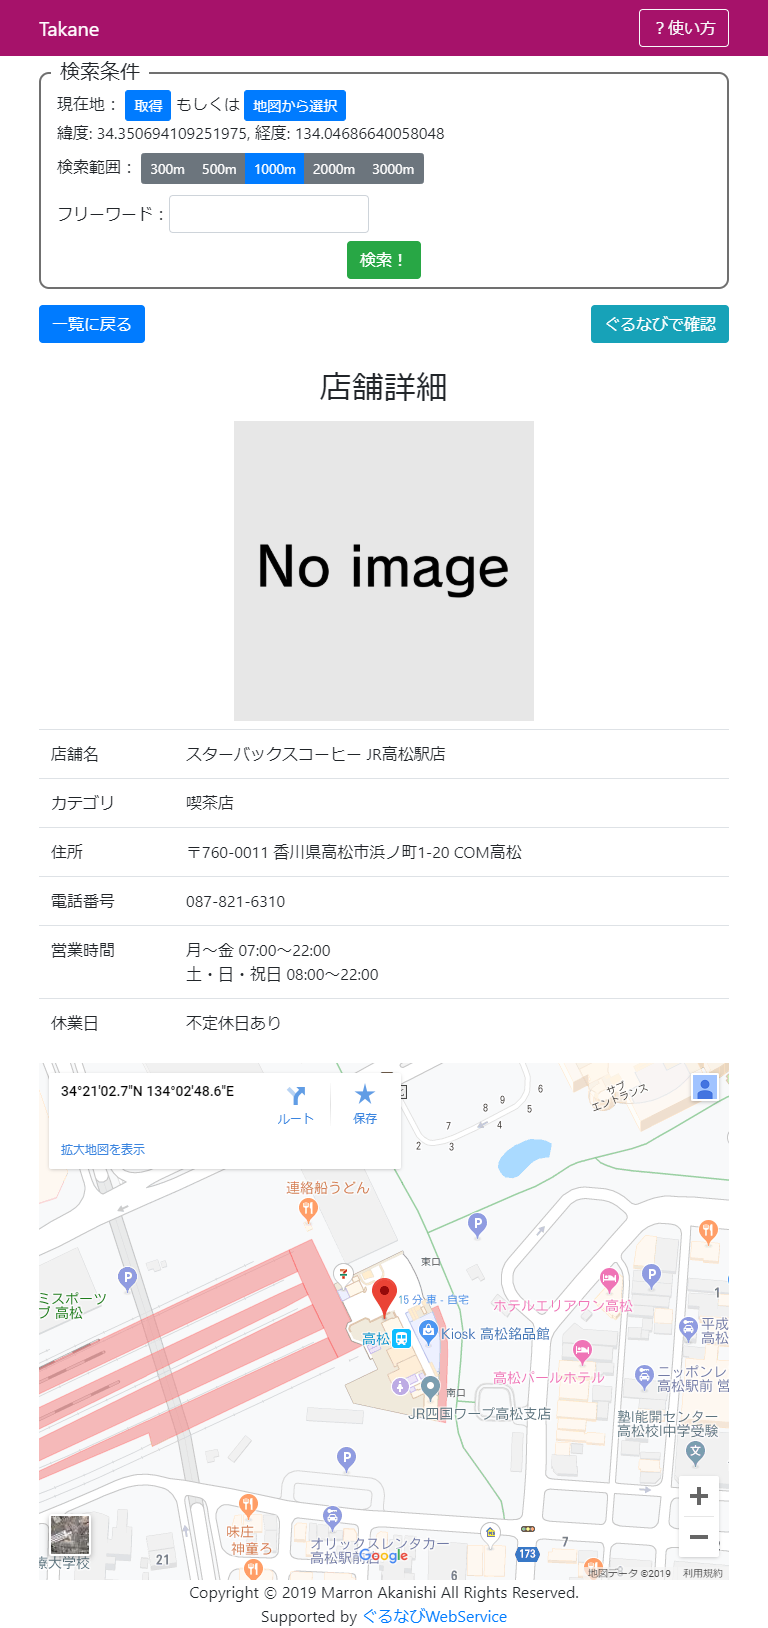
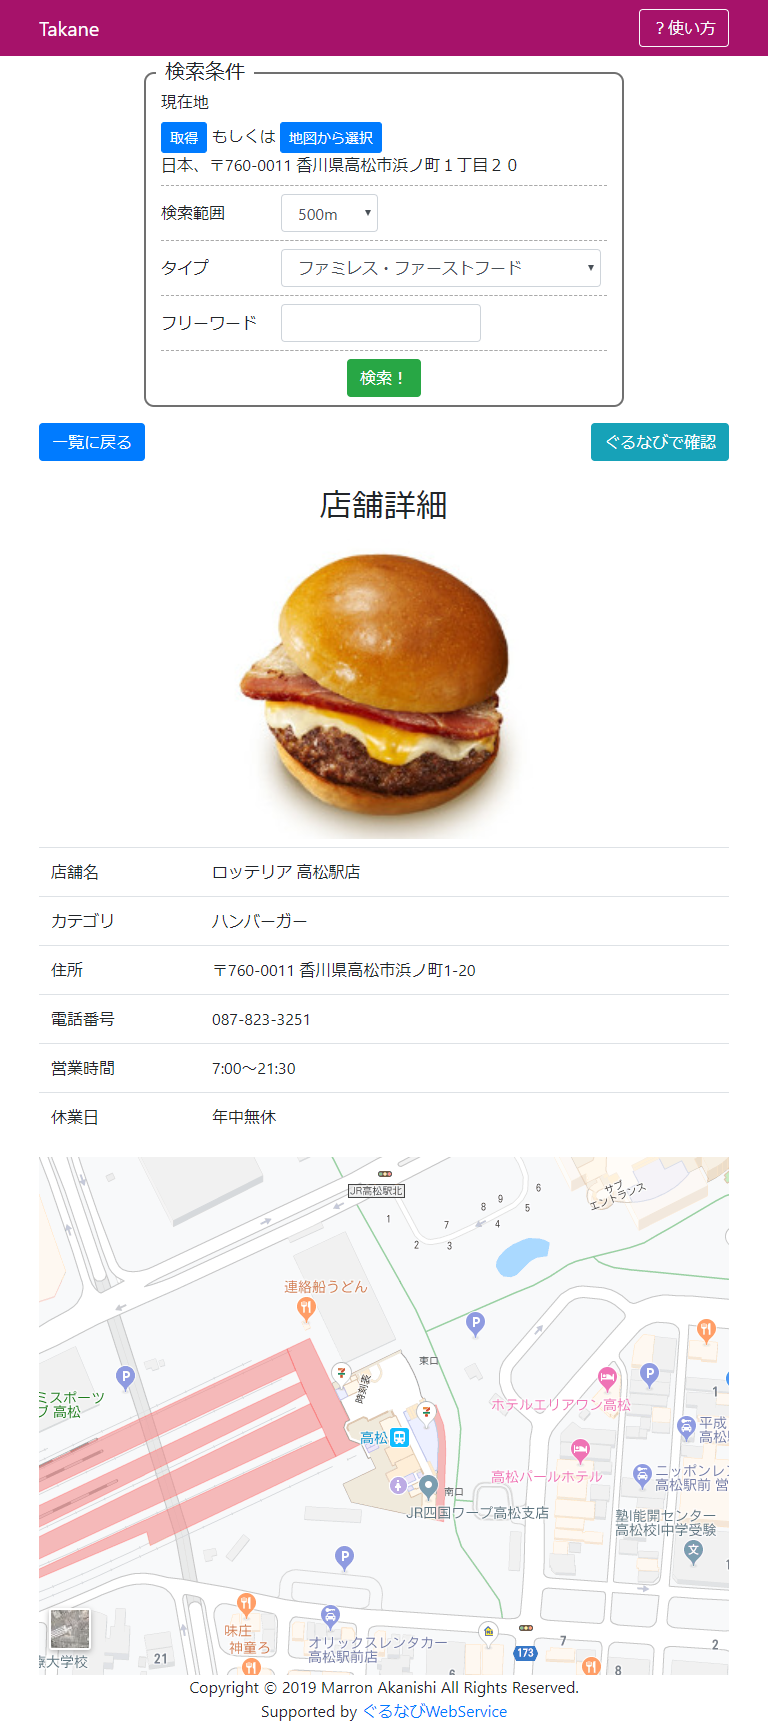
デザイン等変更

diff --git a/js/script.js b/js/script.js
@@ -49,19 +49,16 @@ const search_vm = new Vue({
   el: '#search',
   data: {
     position: "現在地を指定してください",
-    area_radius: [
+    range_list: [
       { id: 1, name: "300m"},
       { id: 2, name: "500m" },
       { id: 3, name: "1000m" },
       { id: 4, name: "2000m" },
       { id: 5, name: "3000m" },
     ],
-    area_id: 2,
     type_list: [
       { category_l_code: null, category_l_name: "指定なし"}
     ],
-    type_code: null,
-    type_name: "指定なし",
     latitude: null,
     longitude: null,
     map_zoom: 7,
@@ -73,14 +70,16 @@ const search_vm = new Vue({
       `);
       const json = await resp.json();
       search_vm.type_list = search_vm.type_list.concat(json.category_l);
+      document.querySelector("#range-sel").selectedIndex = 1;
     },
     _getPos: () => {
+      // https://qiita.com/akkey2475/items/81f4f94f17bfe5c7ce42
       navigator.geolocation.getCurrentPosition(
         // 取得成功した場合
         (pos) => {
           search_vm.latitude = pos.coords.latitude;
           search_vm.longitude = pos.coords.longitude;
-          search_vm.position = "緯度: " + pos.coords.latitude + ", 経度: " + pos.coords.longitude;
+          latLng2Address({lat: search_vm.latitude, lng: search_vm.longitude});
         },
         // 取得失敗した場合
         (error) => {
@@ -101,10 +100,8 @@ const search_vm = new Vue({
         }
       );
     },
-    _setArea: (index) => {
-      search_vm.area_id = index;
-    },
     _openMapModal: () => {
+      // https://qiita.com/SOJO/items/d43a28a6fe27de3cc85c
       // 大阪にするか指定されているか
       const lat = search_vm.latitude || 34.70238529947451;
       const lng = search_vm.longitude || 135.49552602848348;
@@ -128,14 +125,30 @@ const search_vm = new Vue({
       });
     },
     _setPos: () => {
-      search_vm.position = "緯度: " + search_vm.latitude + ", 経度: " + search_vm.longitude;
-    },
-    _setType: (code, name) => {
-      search_vm.type_code = code;
-      search_vm.type_name = name;
+      latLng2Address({ lat: search_vm.latitude, lng: search_vm.longitude });
     }
   }
 });
+
+// 住所表示
+// https://techa1008.com/rocket-note/2018/07/19/get-address-from-latitude-and-longitude-using-google-maps-javascript-api/
+const latLng2Address = (latLng) => {
+  // ジオコーダのコンストラクタ
+  const geocoder = new google.maps.Geocoder();
+  // Reverse Geocoding開始
+  geocoder.geocode({
+    // 緯度経度を指定
+    latLng: latLng
+  }, (results, status) => {
+    // 成功
+    if (status == google.maps.GeocoderStatus.OK && results[0].geometry) {
+      // 住所フル
+      search_vm.position = results[0].formatted_address;
+    } else {
+      search_vm.position = "住所の取得に失敗しました";
+    }
+  });
+}
 
 // 一覧取得
 const getRestSearch = async (page) => {
@@ -144,16 +157,22 @@ const getRestSearch = async (page) => {
     alert("最初に現在地を指定してください");
     return;
   }
-  // APIにアクセス
-  let url = `https://api.gnavi.co.jp/RestSearchAPI/v3/?keyid=${GNAVI_API}&latitude=${search_vm.latitude}&longitude=${search_vm.longitude}&range=${search_vm.area_id}&hit_per_page=${GET_MAX}`
+  // 選択状態の取得
+  const range_index = document.querySelector("#range-sel").selectedIndex;
+  const range_id = search_vm.range_list[range_index].id;
+  const type_index = document.querySelector("#type-sel").selectedIndex;
+  // アクセスURL生成
+  let url = `https://api.gnavi.co.jp/RestSearchAPI/v3/?keyid=${GNAVI_API}&latitude=${search_vm.latitude}&longitude=${search_vm.longitude}&range=${range_id}&hit_per_page=${GET_MAX}`
   if (document.querySelector("#freeword").value != "") {
     const freeword = encodeURIComponent(document.querySelector("#freeword").value.replace(/ /g, ','));
     url += `&freeword=${freeword}`
   }
-  if (search_vm.type_code != null) url += `&category_l=${search_vm.type_code}`
+  if (type_index != 0) url += `&category_l=${search_vm.type_list[type_index].category_l_code}`
+  // APIにアクセス
   const resp = await fetch(url);
   const json = await resp.json();
   console.log(json);
+  // エラー処理
   if (json.error != null){
     results_vm.error = json.error[0];
     results_vm.hit_count = 0;
@@ -162,13 +181,43 @@ const getRestSearch = async (page) => {
   } else {
     results_vm.error = null;
     results_vm.hit_count = json.total_hit_count;
-    results_vm.rest_list = json.rest;
+    results_vm.rest_list = sortRestList(json.rest);
   }
   // ページャー作成
   makePageNav(results_vm.page_limit);
   // 表示状態をリセット
   document.querySelector("#details").style.display = "none";
   document.querySelector("#results").style.display = "";
+}
+
+// 距離によって並び替え
+const sortRestList = (list) => {
+  // 距離計算
+  const new_list = list.map((rest) => {
+    let dist;
+    if (rest.latitude == "" || rest.longitude == "") dist = 99999;
+    else dist = calcDistance(search_vm.latitude, search_vm.longitude, rest.latitude, rest.longitude)
+    rest.distance = dist;
+    return rest;
+  })
+  // 近い順に並び替え
+  return new_list.sort((a, b) => {
+    a = a.distance;
+    b = b.distance;
+    if (a < b) return -1;
+    else if (a > b) return 1;
+    else return 0;
+  });
+}
+
+// 緯度経度による距離計算(メートル)
+// https://qiita.com/kawanet/items/a2e111b17b8eb5ac859a
+const calcDistance = (lat1, lng1, lat2, lng2) => {
+  lat1 *= Math.PI / 180;
+  lng1 *= Math.PI / 180;
+  lat2 *= Math.PI / 180;
+  lng2 *= Math.PI / 180;
+  return parseInt(1000 * 6371 * Math.acos(Math.cos(lat1) * Math.cos(lat2) * Math.cos(lng2 - lng1) + Math.sin(lat1) * Math.sin(lat2)));
 }
 
 // ページャーの生成
@@ -212,6 +261,7 @@ const makePageNav = (limit) => {
 
 // ページネーション
 const setPage = (page) => {
+  // 表示ページの変更
   switch (page) {
     case "prev":
       results_vm.current_page--;

diff --git a/index.html b/index.html
@@ -28,39 +28,49 @@
   </nav>
   <!-- メイン -->
   <div id="app" class="container">
-    <div id="search">
-      <div class="search-title">検索条件</div>
-      <div id="search-pos" class="mt-2 mb-2">
-        現在地：
-        <button class="btn btn-primary btn-sm" v-on:click="_getPos">取得</button>
-        もしくは
-        <b-button variant="primary" size="sm" v-b-modal.map-modal>地図から選択</b-button>
-        <br>
-        <span v-html="position"></span>
-      </div>
-      <b-modal id="map-modal" title="地図から選択" static="true" @show="_openMapModal" @ok="_setPos">
-        <p>地図から現在地を選択してください。</p>
-        <div id="search-map" style="width:100%; height:400px;"></div>
-      </b-modal>
-      <div id="search-area" class="mb-2">
-        <label for="area-list">検索範囲：</label>
-        <div class="btn-group btn-group-sm" role="group" id="area-list">
-          <button v-for="radius in area_radius" type="button" v-on:click="_setArea(radius.id)" v-bind:class="['btn', area_id == radius.id ? 'btn-primary' : 'btn-secondary']">{{radius.name}}</button>
+    <div id="search" class="row justify-content-center">
+      <div class="col-md-2"></div>
+      <div class="col-11 col-md-8 search-box">
+        <div class="search-title">検索条件</div>
+        <div id="search-pos" class="mt-2">
+          <label>現在地</label>
+          <div style="display: inline-table;">
+            <button class="btn btn-primary btn-sm" v-on:click="_getPos">取得</button>
+            もしくは
+            <b-button variant="primary" size="sm" v-b-modal.map-modal>地図から選択</b-button>
+            <br>
+            <span v-html="position"></span>
+          </div>
+        </div>
+        <hr>
+        <b-modal id="map-modal" title="地図から選択" static="true" @show="_openMapModal" @ok="_setPos">
+          <p>地図から現在地を選択してください。</p>
+          <div id="search-map" style="width:100%; height:350px;"></div>
+        </b-modal>
+        <div id="search-range" class="form-inline">
+          <label for="range-sel">検索範囲</label>
+          <select id="range-sel" class="form-control">
+            <option v-for="range in range_list">{{range.name}}</option>
+          </select>
+        </div>
+        <hr>
+        <div class="form-inline">
+          <label for="type-sel">タイプ</label>
+          <select id="type-sel" class="form-control">
+            <option v-for="type in type_list">{{type.category_l_name}}</option>
+          </select>
+        </div>
+        <hr>
+        <div class="form-inline">
+          <label for="freeword">フリーワード</label>
+          <input type="text" id="freeword" class="form-control">
+        </div>
+        <hr>
+        <div style="text-align: center;">
+          <button class="btn btn-success" onclick="getRestSearch()">検索！</button>
         </div>
       </div>
-      <div class="mb-2 form-inline">
-        <label for="freeword">フリーワード：</label>
-        <input type="text" id="freeword" class="form-control">
-      </div>
-      <div class="mb-2 form-inline">
-        <label for="type-sel">タイプ：</label>
-        <b-dropdown id="type-sel" v-bind:text="type_name">
-          <b-dropdown-item v-for="type in type_list" v-on:click="_setType(type.category_l_code, type.category_l_name)">{{type.category_l_name}}</b-dropdown-item>
-        </b-dropdown>
-      </div>
-      <div style="text-align: center;">
-        <button class="btn btn-success" onclick="getRestSearch()">検索！</button>
-      </div>
+      <div class="col-md-2"></div>
     </div>
     <div id="results">
       <div v-if="error">
@@ -76,7 +86,8 @@
           <img v-if="rest.image_url.shop_image1" v-bind:src="rest.image_url.shop_image1" width="100" class="mr-2" />
           <img v-else src="images/noimage.png" width="100" class="mr-2" />
           <div class="media-body">
-            <h5 class="mt-0">{{rest.name}}</h5>
+            <h5 v-if="rest.distance != 9999" class="mt-0">{{rest.distance}}m：{{rest.name}}</h5>
+            <h5 v-else class="mt-0">不明：{{rest.name}}</h5>
             <div style="color: #5f5f5f">
               カテゴリ：
               <span>{{rest.category}}</span><br>
@@ -133,11 +144,12 @@
             <td>{{detail.holiday}}</td>
           </tr>
         </table>
-        <div class="embed-responsive embed-responsive-4by3">
+        <div v-if="detail.latitude" class="embed-responsive embed-responsive-4by3">
           <iframe class="embed-responsive-item"
             v-bind:src="'https://maps.google.co.jp/maps?output=embed&t=m&hl=ja&z=18&ll='+detail.latitude+','+detail.longitude+'&q='+detail.latitude+','+detail.longitude"
             frameborder="0" scrolling="no"></iframe>
         </div>
+        <div v-else>座標情報を取得出来ないため、地図を表示できません。<br></div>
       </div>
     </div>
   </div>

diff --git a/help.html b/help.html
@@ -54,8 +54,9 @@
       マップが表示されますので、現在地の座標を指定してください。マーカーが表示されれば指定できているので「OK」を押してください。<br>
       <img src="images/search_map.png" /><br>
       検索範囲は現在地から半径何mの範囲で検索するかを指定します。初期状態では500mとなっています。<br>
-      フリーワードはキーワードを自由に入力出来ます。<br>
       タイプでは検索したい店舗のタイプを指定できます。<br>
+      フリーワードはキーワードを自由に入力出来ます。<br>
+      タイプとフリーワードは任意指定なので、何も指定しなくても大丈夫です。<br>
       最後に「検索！」ボタンを押すことで検索を行います。
     </p>
     <h4>2. 検索結果一覧</h4>
@@ -64,7 +65,8 @@
       検索を行うと条件の下に店舗がリストで表示されます。<br>
       見つかった店舗数が100件以上の場合は最初の100件のみ表示します。検索範囲やフリーワードで絞り込みを行ってください。<br>
       1画面につき15件づつ表示されており、一番下でページを切り替えられます。<br>
-      各店舗を押すと店舗詳細が表示されます。
+      店舗名の横にある距離表示は現在地からの直線距離を示しています。リストは近い順で表示されています。<br>
+      各店舗を選択すると店舗詳細が表示されます。
     </p>
     <h4>3. 店舗詳細</h4>
     <img src="images/detail.png" />
@@ -78,14 +80,27 @@
     <h3>位置情報が取得できない</h3>
     <p>
       「取得」ボタンを押した際にエラーが表示される場合は、位置情報利用が許可されていない可能性があります。<br>
-      許可方法に関しては、お使いのOSやブラウザによって異なりますのでご確認ください。<br>
+      許可方法に関しては、お使いのOSやブラウザによって異なります。Chromeをお使いの方は以下のリンクよりご確認ください。<br>
+      <a href="https://support.google.com/chrome/answer/142065?co=GENIE.Platform%3DAndroid&hl=ja&oco=0" target="_blank">現在地情報を共有する - Google Chrome ヘルプ</a><br>
+      その他のブラウザをご利用の方は各自で調べていただきますようお願いします。<br>
       また、位置情報利用を許可したくない場合はマップから指定する方法でお使いください。
+    </p>
+    <h3>「住所の取得に失敗しました」と表示された</h3>
+    <p>
+      現在地取得もしくはマップから指定した場合に緯度経度情報から住所を導き出せなかった時に表示されます。<br>
+      住所が表示されていなくても、緯度経度情報は取得出来ていますのでそのまま検索可能です。
     </p>
     <h3>検索時にエラーが表示された</h3>
     <p>
       フリーワードの条件や現在地によっては、店舗が見つからずエラーが表示される場合があります。<br>
       この場合は検索条件を変更することで表示される場合があります。
     </p>
+    <h3>距離が表示されない、詳細画面でマップが表示されない</h3>
+    <p>
+      取得した店舗情報に緯度経度情報が含まれていない場合に生じる問題です。<br>
+      どうしようも出来ないのでぐるなびを直接確認するなどで対応してください。
+    </p>
+    <br>
   </div>
   <!-- 権利表記 -->
   <footer class="footer">

diff --git a/css/style.css b/css/style.css
@@ -1,4 +1,4 @@
-#search {
+.search-box {
   position: relative;
   padding: 0.5rem 1rem;
   margin: 1rem 0;
@@ -15,6 +15,16 @@
   line-height: 1;
   font-size: 20px;
   background: #FFF;
+}
+
+#search hr {
+  border: 0.5px dashed #aaaaaa;
+  margin: 0.5rem 0;
+}
+
+#search label{
+  width: 120px;
+  justify-content: left !important;
 }
 
 .rest-row {
